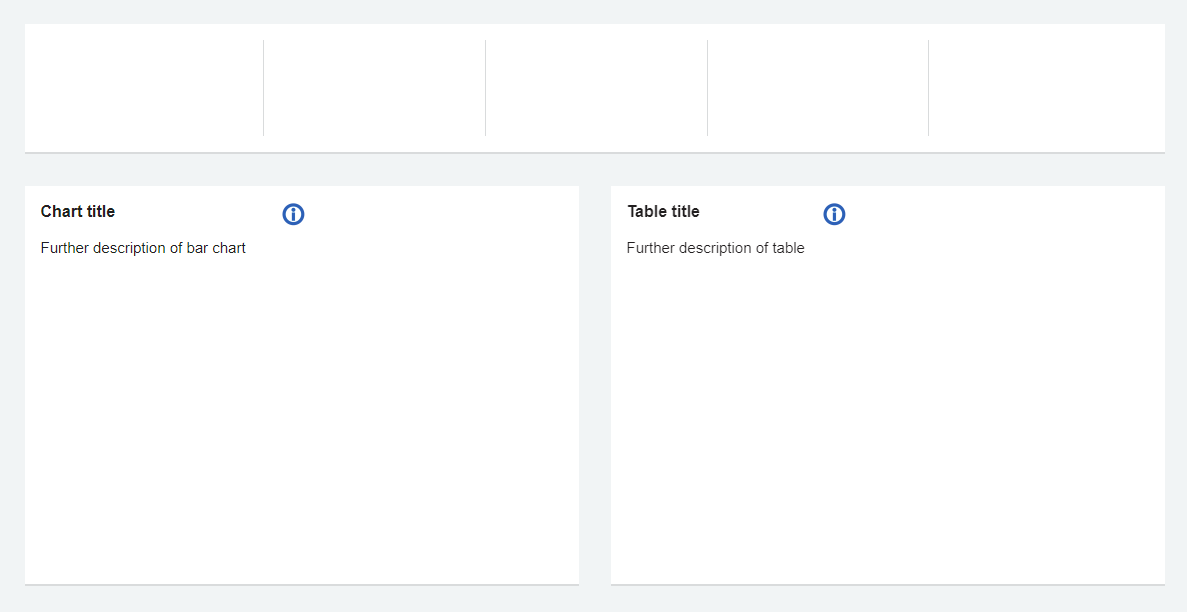
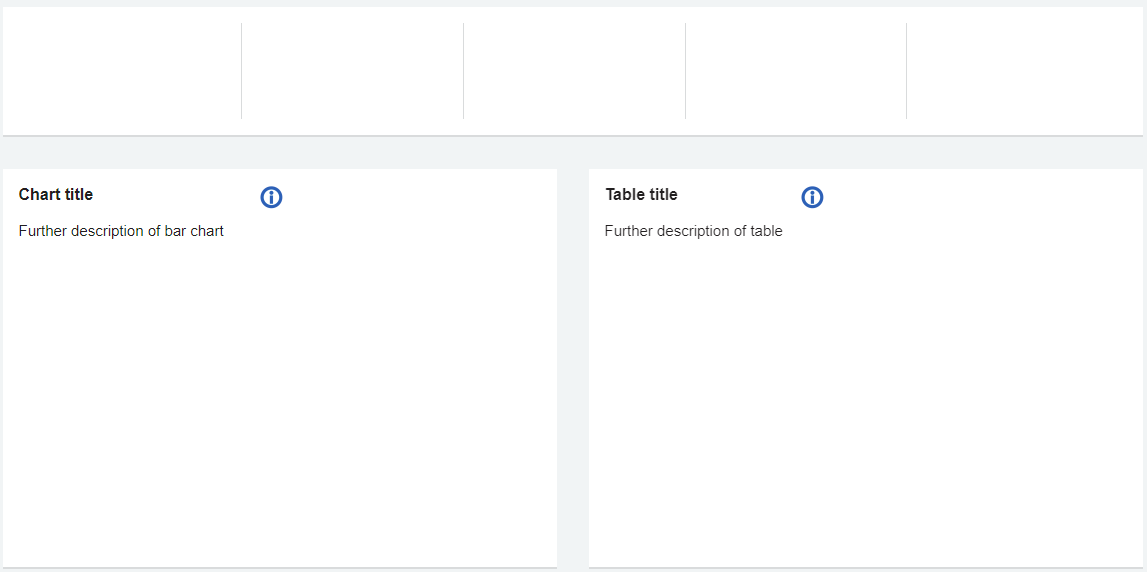
KPI page, side bar navigation update, background colour to match NHS England grey

diff --git a/overrides/home.html b/overrides/home.html
@@ -234,7 +234,7 @@
     <p>Why its important, the benefits and how you can support.</p>
   </a>
 
-  <a href="dashboard_lifecycle/index" class="feature-item">
+  <a href="dashboard_design" class="feature-item">
     <h2>
       <svg viewBox="0 0 24 24" fill="none" xmlns="http://www.w3.org/2000/svg">
         <g id="SVGRepo_bgCarrier" stroke-width="0"></g>
@@ -294,7 +294,7 @@
     <p>Speed up your development by downloading our NHS Tableau Templates.</p>
   </a>
 
-  <a href="https://github.com/NHSDigital/data-viz-community-of-practice/blob/main/Dashboard%20Template%20Guidance.md" class="feature-item">
+  <a href="training_resources" class="feature-item">
     <h2>
       <svg
         viewBox="-4 -4 28.00 28.00"

diff --git a/docs/stylesheets/extra.css b/docs/stylesheets/extra.css
@@ -1,14 +1,14 @@
 :root>* {
   --md-primary-fg-color: #005eb8;
-  --md-default-bg-color: #f8f8f8;
+  --md-default-bg-color: #f0f4f5;
   -moz-osx-font-smoothing: grayscale;
   -webkit-font-smoothing: antialiased;
-  background-color: #f8f8f8;
+  background-color: #f0f4f5;
   line-height: 1.5;
   margin: 0;
   min-height: 100%;
   color: black;
-  --md-footer-bg-color: #f8f8f8;
+  --md-footer-bg-color: #f0f4f5;
   --md-footer-fg-color: black;
   --md-footer-fg-color--light: black;
 }

diff --git a/docs/dashboard_design/kpis.md b/docs/dashboard_design/kpis.md
@@ -1,9 +1,72 @@
-# KPIs & headline figures
+# KPIs
+KPIs are used to provide at a glance key information for the user.
+
+## Best Practices
+
+???+ tip "Typography - Best practices"
+    - [x] The width of the KPI slots should change based on the screen size (not the spacing between them). The space between each KPI slot should always be 8px.
+    - [x] If there is any description available for the KPIs that has to be shown in a tooltip on rollover the KPI slot.
+    - [x] There can be any number of KPIs shown on a dashboard (we suggest not more than 10) but a minimum of four and a maximum of five slots should be allocated per row to display the KPIs.
+    - [x] If there are <5 KPIs then we use blank spaces for the remaining slots out of five.
+    - [x] If a KPI slot has a click-through, then its title should appear in <font color="#005EB8">**blue (#005EB8)**</font> along with an arrow
+    - [x] If a KPI slot does not have a click-through it should be in **black (#212B32)** without an arrow.
+    - [ ] There should not be a mix of interactive and non-interactive KPIs on the dashboard
+    - [x] Titles for KPIs will be pulled dynamically from the data, so during the testing, if we notice the titles are long then increase the height of these KPI slots.
+
+![KPI example](../../images/KPI_annotated.png){ data-title="KPI example" data-description=".custom-desc1" data-caption-position="left" data-gallery="kpi"}
+<div class="glightbox-desc custom-desc1">
+Annotated KPI
+</div>
 
 
-## KPIs
+## KPIs per row
+There can be any number of KPIs appear on dashboards (we suggest not more than 10), but a maximum of five slots and a minimum of four should be allocated per row to display the KPIs
 
+![KPIs per row](../../images/KPI_row.png){ data-title="KPIs per row" data-description=".custom-desc2" data-caption-position="left" data-gallery="kpi"}
+<div class="glightbox-desc custom-desc2">
+Example of number of KPIs in a row
+</div>
 
+## KPIs with long titles
 
-## Headline figures
+![KPIs with long titles](../../images/KPI_long_titles.png){ data-title="KPIs per row" data-description=".custom-desc3" data-caption-position="left" data-gallery="kpi"}
+<div class="glightbox-desc custom-desc3">
+Example of KPIs with long titles
+</div>
+
+## KPIs per row - empty slots
+
+If there are <5 KPIs then the remaining slots out of five should be left as blank
+
+![KPIs per row - empty slots](../../images/KPI_row_empty.png){ data-title="KPIs per row" data-description=".custom-desc4" data-caption-position="left" data-gallery="kpi"}
+<div class="glightbox-desc custom-desc4">
+Example of number of KPIs with empty slots
+</div>
+
+## KPIs variations
+
+### Interactive KPIs
+If a KPI slot has a click-through, then its title should appear in <font color="#005EB8">**blue (#005EB8)**</font> along with an arrow
+
+![Interactive KPIs](../../images/KPI_row.png){ data-title="Interactive KPIs" data-description=".custom-desc5" data-caption-position="left" data-gallery="kpi"}
+<div class="glightbox-desc custom-desc5">
+Example of interactive KPIs
+</div>
+
+### Non-interactice KPIs
+If a KPI slot does not have a click-through it should be in **black (#212B32)** without an arrow.
+
+![Non interactice KPIs](../../images/KPI_variations_black.png){ data-title="Non interactice KPIs" data-description=".custom-desc6" data-caption-position="left" data-gallery="kpi"}
+<div class="glightbox-desc custom-desc6">
+Example of non interactice KPIs
+</div>
+
+## KPIs grouping
+5 KPIs should be spread across the screen. When there is a mixed scenario of grouped KPIs and individual KPIs then we have to leave an extra space on the top of the slot.
+If possible arrange the groups first followed by the individual KPIs
+
+![KPIs grouping](../../images/KPI_grouping.png){ data-title="KPIs grouping" data-description=".custom-desc7" data-caption-position="left" data-gallery="kpi"}
+<div class="glightbox-desc custom-desc7">
+Example of grouped KPIs
+</div>
 
